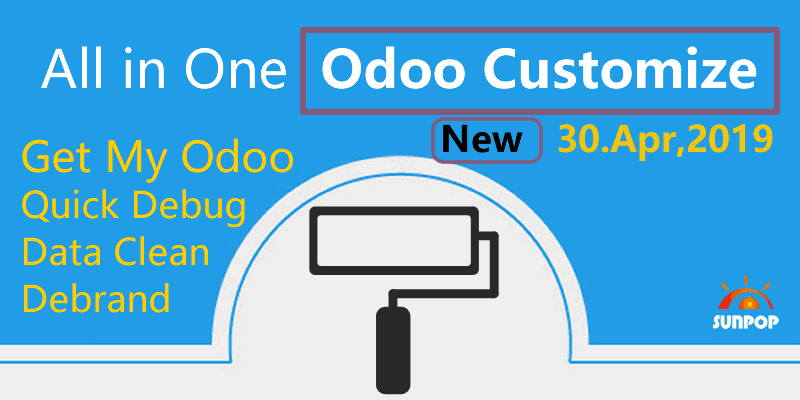
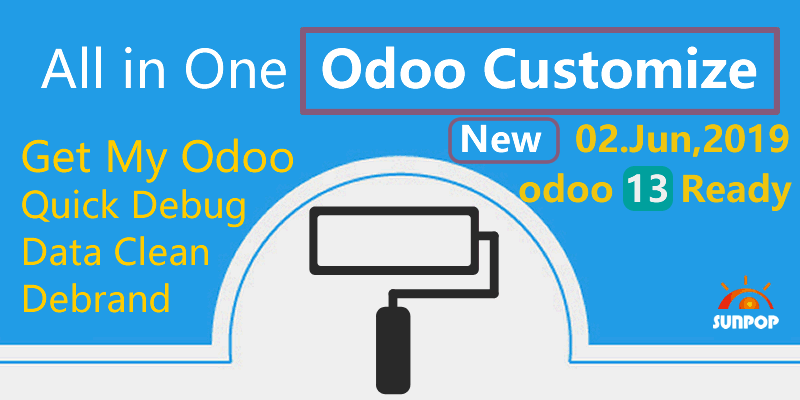
add support odoo13 customize

Changed region(s): [[0.5312, 0.27, 1.0, 0.54]]

diff --git a/app_odoo_customize/static/description/index.html b/app_odoo_customize/static/description/index.html
@@ -28,7 +28,13 @@
             <div class="oe_demo" style=" margin: 30px auto 0; padding: 0 15px 0 0; border:none; width: 96%;">
                 <p>This moduld allows user to quickly customize and debranding Odoo. Quick debug, Language Switcher,
                     Online Documentation Access,Quick Data Clear. </p>
-                <p class="mb16">Support Odoo 12, 11, 10, 9. Including communicate and enterprise version. </p>
+                <p class="mb16">Support Odoo 13, 12, 11, 10, 9. Including communicate and enterprise version. </p>
+                <h3>Update: v12.19.06.02</h3>
+                <p>27. Add odoo 13 support, Just install this app on odoo 13, master branch of odoo github.</p>
+                <p>
+                    If you are using windows, you can get odoo 13 from
+                    <a href="http://github.com/guohuadeng/odoo13-x64" target="_blank">http://github.com/guohuadeng/odoo13-x64</a>
+                </p>
                 <h3>Update: v12.19.04.30</h3>
                 <p>26. Add multi uninstall modules</p>
                 <h3>Update: v12.19.04.18</h3>
@@ -88,6 +94,8 @@
                     <li class="list-group-item">23. Add reset or clear website blog data</li>
                     <li class="list-group-item">24. Customize Odoo Native Module(eg. Enterprise) Url</li>
                     <li class="list-group-item">25. Add remove expense data</li>
+                    <li class="list-group-item">26. Add multi uninstall modules</li>
+                    <li class="list-group-item">27. Add odoo 13 support, Just install this app on odoo 13, master branch of odoo github.</li>
                 </ul>
                 <p>
                 This module can help to white label the Odoo.
@@ -112,6 +120,20 @@
         <div class="oe_demo oe_screenshot">
             <img src="banner.gif" style="border:1px solid black"/>
             <br/>
+        </div>
+        <div class="oe_demo"
+             style="margin: 20px auto; padding: 0 15px 0 0; border:none; border-top:solid 1px #dedede; width: 96%;">
+            <h2 class='oe_mt32'>odoo 13 Ready for communicate and enterprise edition</h2>
+        </div>
+        <div class="oe_demo oe_screenshot">
+            <img src="odoo13ready.jpg" style="border:1px solid black"/>
+            <br/>
+        </div>
+        <div class="oe_demo"
+             style="margin: 20px auto; padding: 0 15px 0 0; border:none; border-top:solid 1px #dedede; width: 96%;">
+            <h2 class='oe_mt32'>Easy data cleanup</h2>
+        </div>
+        <div class="oe_demo oe_screenshot">
             <img src="set3.jpg" style="border:1px solid black"/>
             <br/>
         </div>

diff --git a/app_odoo_customize/__manifest__.py b/app_odoo_customize/__manifest__.py
@@ -23,14 +23,15 @@
 
 {
     'name': 'Odoo Customize(Debranding, My Odoo)',
-    'version': '12.19.05.11',
+    'version': '12.19.06.02',
     'author': 'Sunpop.cn',
     'category': 'Productivity',
     'website': 'https://www.sunpop.cn',
     'license': 'AGPL-3',
     'sequence': 2,
     'summary': """    
-    Quick customize, debranding,reset data, debug. Language Switcher. 
+    Quick Customize, Debrand, Reset data, Debug. Language Switcher. 
+    odoo 13,12,11,10,9 support.
     Easy Delete data.reset account chart.
     odoo debrand, odoo debranding, customize my odoo. 
     """,
@@ -39,7 +40,7 @@
     App Odoo Customize(Debranding Title,Language,Documentation,Quick Debug)
     ============
     White label odoo.
-    Support Odoo 12, 11, 10, 9.
+    Support Odoo 13, 12, 11, 10, 9.communicate and enterprise 
     You can config odoo, make it look like your own platform.
     1. Deletes Odoo label in footer
     2. Replaces "Odoo" in Windows title
@@ -67,6 +68,7 @@
     24. Customize Odoo Native Module(eg. Enterprise) Url
     25. Add remove expense data
     26. Add multi uninstall modules
+    27. Add odoo 13 support, Just install this app on odoo 13, master branch of odoo github.
     
     This module can help to white label the Odoo.
     Also helpful for training and support for your odoo end-user.
